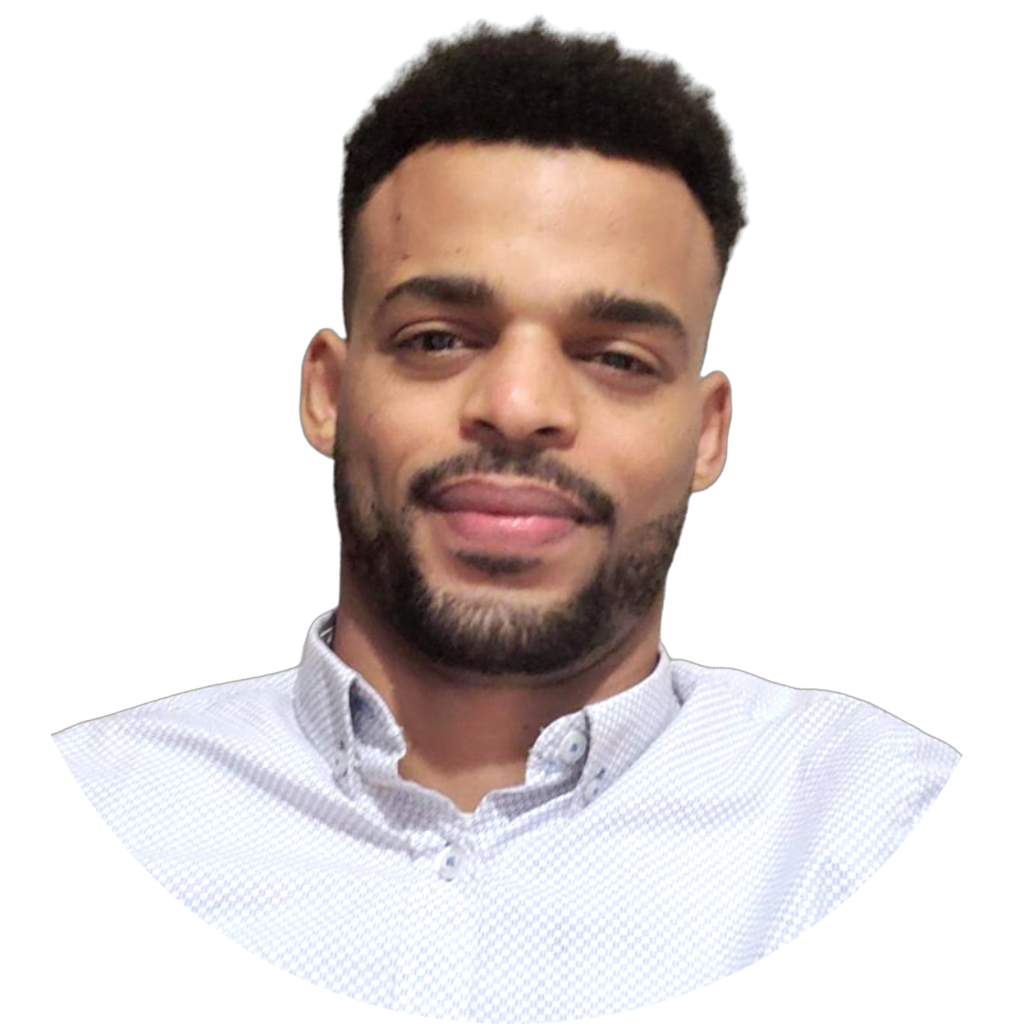
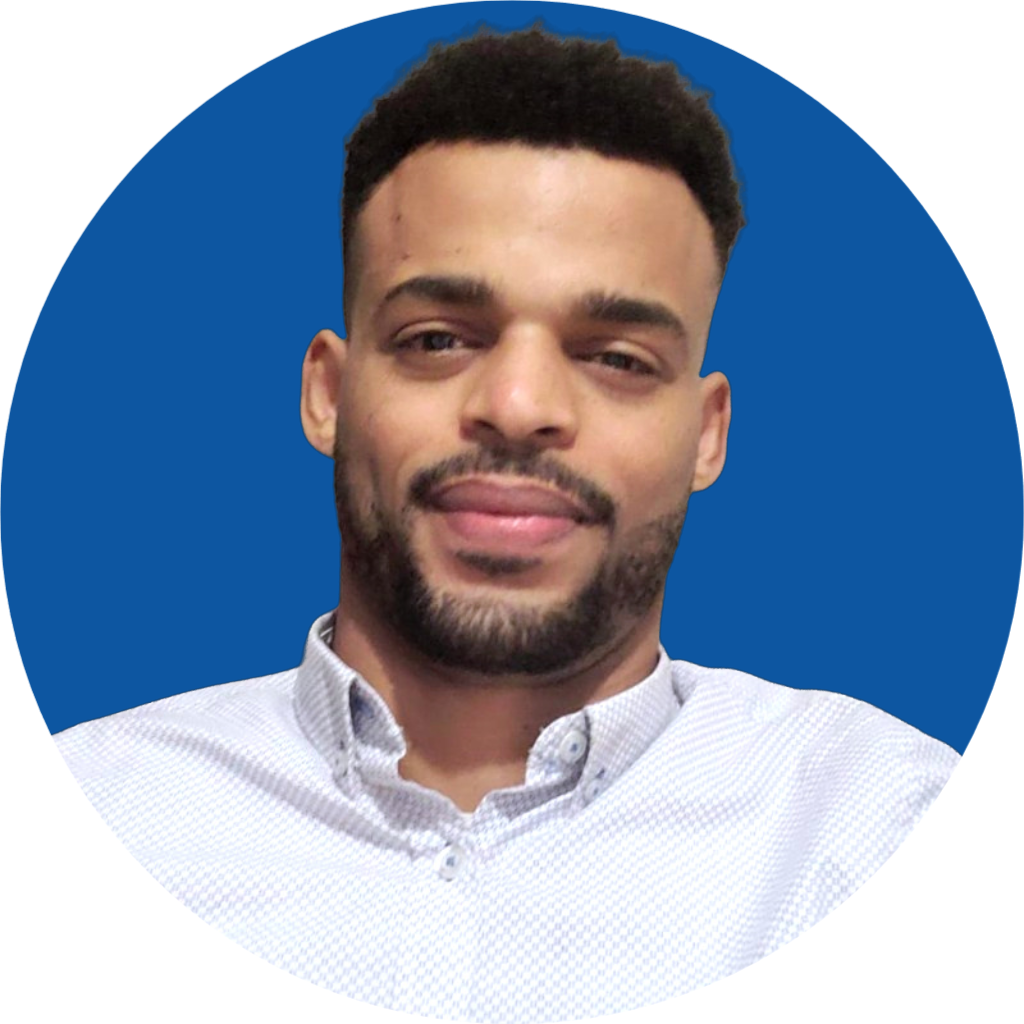
Update primary color and add new profile background image

diff --git a/src/styles.css b/src/styles.css
@@ -1,7 +1,7 @@
 @import url('https://fonts.googleapis.com/css2?family=Lato:wght@300&display=swap');
 
 :root {
-  --primary-color: #1a659e;
+  --primary-color: #0d56a1;
   --secondary-color: #272727;
   --dark-color: #191919;
   --light-color: #f3f2ee;
